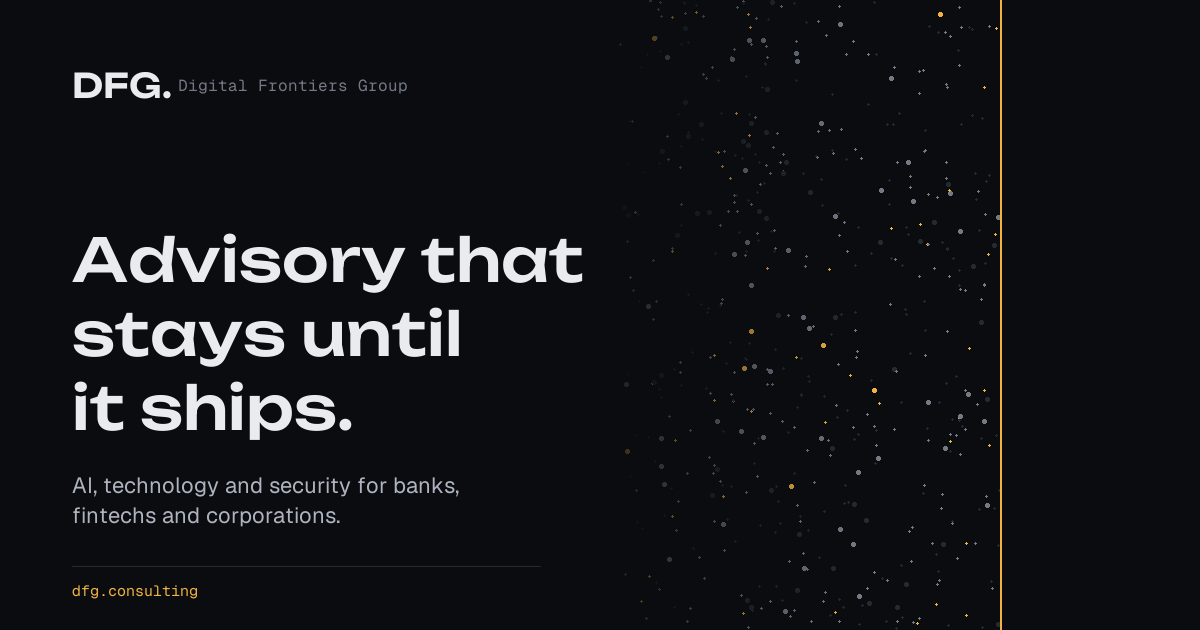
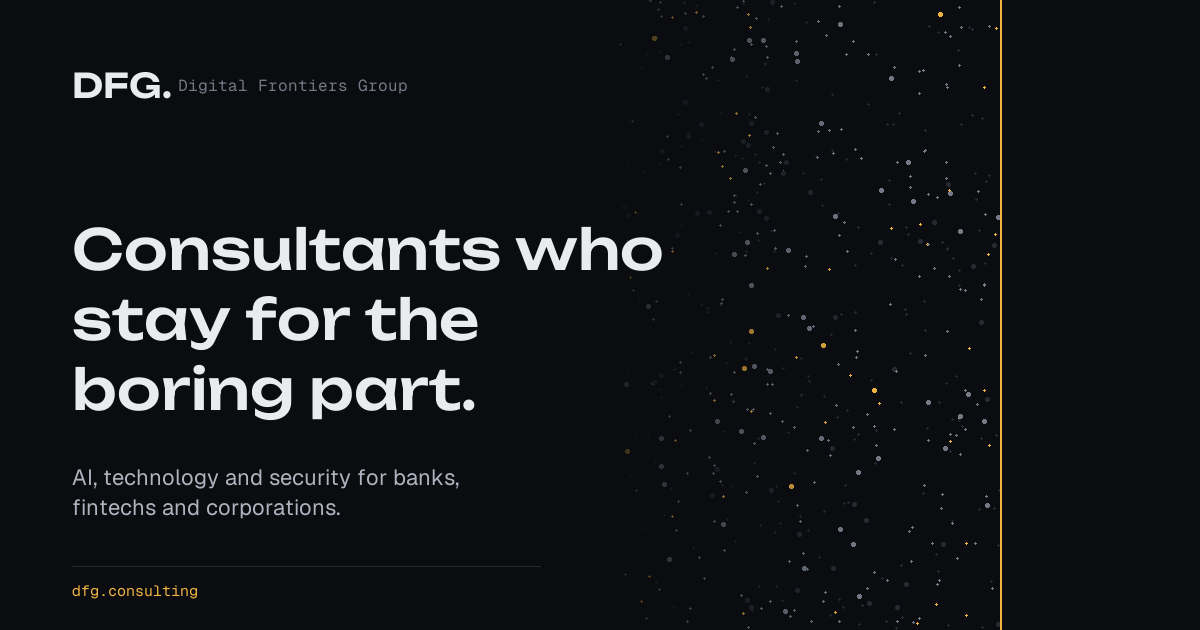
Hero cut to headline, one sentence, one button; new headline and one-liners; canvas without route labels; OG image updated

Changed region(s): [[0.0617, 0.3619, 0.555, 0.6937], [0.0617, 0.754, 0.4008, 0.8444]]

diff --git a/index.html b/index.html
@@ -16,7 +16,7 @@
 <meta property="og:image" content="https://dfg.consulting/og.png">
 <meta property="og:image:width" content="1200">
 <meta property="og:image:height" content="630">
-<meta property="og:image:alt" content="DFG. Advisory that stays until it ships.">
+<meta property="og:image:alt" content="DFG. Consultants who stay for the boring part.">
 <meta name="twitter:card" content="summary_large_image">
 <meta name="twitter:image" content="https://dfg.consulting/og.png">
 <link rel="preconnect" href="https://fonts.googleapis.com">
@@ -46,14 +46,13 @@
     <canvas id="scan" aria-hidden="true"></canvas>
     <div class="grid">
       <div class="copy">
-        <h1 class="d" id="h1">Advisory that stays until it ships.</h1>
-        <p class="sub">AI, technology and security for banks, fintechs and corporations. A written diagnosis in two weeks, a plan the board can approve, and then we stay through delivery until it runs in production.</p>
-        <p class="who">For a board with an AI mandate and no plan, a fintech choosing its market, its model and its partners, or a CTO holding a customer's due-diligence questionnaire. Fixed scope and fixed price, agreed in writing before day one.</p>
+        <h1 class="d" id="h1">Consultants who stay for the boring part.</h1>
+        <p class="sub">AI, technology and security for banks, fintechs and corporations. Two weeks to a written diagnosis, then we stay until it runs in production.</p>
         <a class="btn" href="#contact">Start a conversation <svg width="18" height="18" viewBox="0 0 18 18" fill="none" aria-hidden="true"><path d="M2 9h13M10 4l5 5-5 5" stroke="currentColor" stroke-width="1.8"/></svg></a>
       </div>
       <div class="tool">
         <nav class="checks frame" id="checks" aria-label="Three checks you can run now">
-          <div class="checks-h"><h2>Three checks you can run now</h2><span>Free. Nothing is stored.</span></div>
+          <div class="checks-h"><h2>Three checks you can run now</h2></div>
           <a class="row" href="/ai-readiness"><span class="n">01</span><span><span class="t">AI readiness assessment</span><span class="s">Six questions, about three minutes. Where an AI programme stands and what to fix first.</span></span><span class="go"><svg width="18" height="18" viewBox="0 0 18 18" fill="none" aria-hidden="true"><path d="M2 9h13M10 4l5 5-5 5" stroke="currentColor" stroke-width="1.6"/></svg></span></a>
           <a class="row" href="/bank-onboarding"><span class="n">02</span><span><span class="t">Bank onboarding evidence</span><span class="s">Thirteen documents a sponsor bank asks for, in the order its review runs.</span></span><span class="go"><svg width="18" height="18" viewBox="0 0 18 18" fill="none" aria-hidden="true"><path d="M2 9h13M10 4l5 5-5 5" stroke="currentColor" stroke-width="1.6"/></svg></span></a>
           <a class="row" href="/iso-27001"><span class="n">03</span><span><span class="t">ISO 27001 control check</span><span class="s">Twelve Annex A controls, in the order an auditor samples them.</span></span><span class="go"><svg width="18" height="18" viewBox="0 0 18 18" fill="none" aria-hidden="true"><path d="M2 9h13M10 4l5 5-5 5" stroke="currentColor" stroke-width="1.6"/></svg></span></a>
@@ -66,7 +65,7 @@
     <div class="grid">
       <div class="sh"><span class="no">01</span><h2>Services</h2><p>Three lines of work. Each starts with a Diagnosis and ends in production.</p></div>
       <div class="sb">
-        <p class="lead">Every engagement starts with a two-week written Diagnosis and ends with something running in production. Not a slide deck, not a roadmap nobody owns.</p>
+        <p class="lead">For a board with an AI mandate and no plan, a fintech choosing its market, its model and its partners, or a CTO holding a customer's due-diligence questionnaire. Every engagement starts with a two-week written Diagnosis and ends with something running in production. Fixed scope, fixed price, in writing before day one.</p>
 
         <div class="svc" id="svc-ai">
           <div class="txt">
@@ -145,14 +144,14 @@
           <span class="mark"><svg viewBox="0 0 64 64" aria-hidden="true"><circle cx="8" cy="12" r="1.3" fill="#AEB4BF" opacity="0.55"/><circle cx="16" cy="12" r="1.3" fill="#AEB4BF" opacity="0.55"/><circle cx="24" cy="12" r="1.3" fill="#AEB4BF" opacity="0.55"/><circle cx="32" cy="12" r="1.3" fill="#F2B441" opacity="1"/><circle cx="40" cy="12" r="1.3" fill="#F2B441" opacity="1"/><circle cx="48" cy="12" r="1.3" fill="#AEB4BF" opacity="0.55"/><circle cx="56" cy="12" r="1.3" fill="#AEB4BF" opacity="0.55"/><circle cx="8" cy="20" r="1.3" fill="#AEB4BF" opacity="0.55"/><circle cx="16" cy="20" r="1.3" fill="#AEB4BF" opacity="0.55"/><circle cx="24" cy="20" r="1.3" fill="#AEB4BF" opacity="0.55"/><circle cx="32" cy="20" r="1.3" fill="#F2B441" opacity="1"/><circle cx="40" cy="20" r="1.3" fill="#F2B441" opacity="1"/><circle cx="48" cy="20" r="1.3" fill="#AEB4BF" opacity="0.55"/><circle cx="56" cy="20" r="1.3" fill="#AEB4BF" opacity="0.55"/><circle cx="8" cy="28" r="1.3" fill="#AEB4BF" opacity="0.55"/><circle cx="16" cy="28" r="1.3" fill="#AEB4BF" opacity="0.55"/><circle cx="24" cy="28" r="1.3" fill="#AEB4BF" opacity="0.55"/><circle cx="32" cy="28" r="1.3" fill="#F2B441" opacity="1"/><circle cx="40" cy="28" r="1.3" fill="#F2B441" opacity="1"/><circle cx="48" cy="28" r="1.3" fill="#AEB4BF" opacity="0.55"/><circle cx="56" cy="28" r="1.3" fill="#AEB4BF" opacity="0.55"/><circle cx="8" cy="36" r="1.3" fill="#AEB4BF" opacity="0.55"/><circle cx="16" cy="36" r="1.3" fill="#AEB4BF" opacity="0.55"/><circle cx="24" cy="36" r="1.3" fill="#AEB4BF" opacity="0.55"/><circle cx="32" cy="36" r="1.3" fill="#F2B441" opacity="1"/><circle cx="40" cy="36" r="1.3" fill="#F2B441" opacity="1"/><circle cx="48" cy="36" r="1.3" fill="#AEB4BF" opacity="0.55"/><circle cx="56" cy="36" r="1.3" fill="#AEB4BF" opacity="0.55"/><circle cx="8" cy="44" r="1.3" fill="#AEB4BF" opacity="0.55"/><circle cx="16" cy="44" r="1.3" fill="#AEB4BF" opacity="0.55"/><circle cx="24" cy="44" r="1.3" fill="#AEB4BF" opacity="0.55"/><circle cx="32" cy="44" r="1.3" fill="#F2B441" opacity="1"/><circle cx="40" cy="44" r="1.3" fill="#F2B441" opacity="1"/><circle cx="48" cy="44" r="1.3" fill="#AEB4BF" opacity="0.55"/><circle cx="56" cy="44" r="1.3" fill="#AEB4BF" opacity="0.55"/><circle cx="8" cy="52" r="1.3" fill="#AEB4BF" opacity="0.55"/><circle cx="16" cy="52" r="1.3" fill="#AEB4BF" opacity="0.55"/><circle cx="24" cy="52" r="1.3" fill="#AEB4BF" opacity="0.55"/><circle cx="32" cy="52" r="1.3" fill="#F2B441" opacity="1"/><circle cx="40" cy="52" r="1.3" fill="#F2B441" opacity="1"/><circle cx="48" cy="52" r="1.3" fill="#AEB4BF" opacity="0.55"/><circle cx="56" cy="52" r="1.3" fill="#AEB4BF" opacity="0.55"/><path d="M36 6v52" stroke="#F2B441" stroke-width="1"/></svg></span>
           <span class="k">01 &middot; AI and IT consulting</span>
           <h3>AI strategy and delivery</h3>
-          <p>From a board mandate to one use-case in production with a measured result.</p>
+          <p>A list of thirty use-cases becomes two. One of them ships.</p>
           <span class="go"><svg width="18" height="18" viewBox="0 0 18 18" fill="none" aria-hidden="true"><path d="M2 9h13M10 4l5 5-5 5" stroke="currentColor" stroke-width="1.8"/></svg></span>
         </a>
         <a class="area frame" href="/expertise/data-and-it">
           <span class="mark"><svg viewBox="0 0 64 64" aria-hidden="true"><rect x="8" y="9" width="9" height="9" fill="#F2B441" stroke="#F2B441" stroke-width="1" opacity="1"/><rect x="21" y="9" width="9" height="9" fill="none" stroke="#AEB4BF" stroke-width="1" opacity="0.7"/><rect x="34" y="9" width="9" height="9" fill="none" stroke="#AEB4BF" stroke-width="1" opacity="0.7"/><rect x="47" y="9" width="9" height="9" fill="none" stroke="#AEB4BF" stroke-width="1" opacity="0.7"/><rect x="8" y="22" width="9" height="9" fill="none" stroke="#AEB4BF" stroke-width="1" opacity="0.7"/><rect x="21" y="22" width="9" height="9" fill="#F2B441" stroke="#F2B441" stroke-width="1" opacity="1"/><rect x="34" y="22" width="9" height="9" fill="none" stroke="#AEB4BF" stroke-width="1" opacity="0.7"/><rect x="47" y="22" width="9" height="9" fill="none" stroke="#AEB4BF" stroke-width="1" opacity="0.7"/><rect x="8" y="35" width="9" height="9" fill="none" stroke="#AEB4BF" stroke-width="1" opacity="0.7"/><rect x="21" y="35" width="9" height="9" fill="none" stroke="#AEB4BF" stroke-width="1" opacity="0.7"/><rect x="34" y="35" width="9" height="9" fill="none" stroke="#AEB4BF" stroke-width="1" opacity="0.7"/><rect x="47" y="35" width="9" height="9" fill="#F2B441" stroke="#F2B441" stroke-width="1" opacity="1"/><rect x="8" y="48" width="9" height="9" fill="none" stroke="#AEB4BF" stroke-width="1" opacity="0.7"/><rect x="21" y="48" width="9" height="9" fill="none" stroke="#AEB4BF" stroke-width="1" opacity="0.7"/><rect x="34" y="48" width="9" height="9" fill="#F2B441" stroke="#F2B441" stroke-width="1" opacity="1"/><rect x="47" y="48" width="9" height="9" fill="none" stroke="#AEB4BF" stroke-width="1" opacity="0.7"/></svg></span>
           <span class="k">02 &middot; AI and IT consulting</span>
           <h3>Data and IT foundations</h3>
-          <p>Who owns what, where the data is, and what it costs to make it usable.</p>
+          <p>The ground under the AI plan: who owns what, and what it costs to fix.</p>
           <span class="go"><svg width="18" height="18" viewBox="0 0 18 18" fill="none" aria-hidden="true"><path d="M2 9h13M10 4l5 5-5 5" stroke="currentColor" stroke-width="1.8"/></svg></span>
         </a>
         <a class="area frame" href="/expertise/fintech-product">
@@ -166,21 +165,21 @@
           <span class="mark"><svg viewBox="0 0 64 64" fill="none" aria-hidden="true"><path d="M32 32L12 14" stroke="#AEB4BF" stroke-width="1" opacity="0.6"/><path d="M32 32L52 14" stroke="#F2B441" stroke-width="1.4" opacity="1"/><path d="M32 32L10 50" stroke="#AEB4BF" stroke-width="1" opacity="0.6"/><path d="M32 32L54 50" stroke="#AEB4BF" stroke-width="1" opacity="0.6"/><path d="M32 32L32 6" stroke="#AEB4BF" stroke-width="1" opacity="0.6"/><rect x="9" y="11" width="6" height="6" fill="#AEB4BF"/><rect x="49" y="11" width="6" height="6" fill="#F2B441"/><rect x="7" y="47" width="6" height="6" fill="#AEB4BF"/><rect x="51" y="47" width="6" height="6" fill="#AEB4BF"/><rect x="29" y="3" width="6" height="6" fill="#AEB4BF"/><rect x="26" y="26" width="12" height="12" stroke="#F2B441" stroke-width="1.4"/></svg></span>
           <span class="k">04 &middot; Fintech advisory</span>
           <h3>Partnerships and the provider ecosystem</h3>
-          <p>Banks, card networks, KYC, payments, custody. Who to work with, on what terms, in what order.</p>
+          <p>A fintech runs on other people's licences and rails. We choose them, and the terms.</p>
           <span class="go"><svg width="18" height="18" viewBox="0 0 18 18" fill="none" aria-hidden="true"><path d="M2 9h13M10 4l5 5-5 5" stroke="currentColor" stroke-width="1.8"/></svg></span>
         </a>
         <a class="area frame" href="/expertise/security-posture">
           <span class="mark"><svg viewBox="0 0 64 64" aria-hidden="true"><rect x="7" y="14" width="10" height="10" fill="#F2B441" stroke="#F2B441" stroke-width="1" opacity="1"/><rect x="20" y="14" width="10" height="10" fill="#F2B441" stroke="#F2B441" stroke-width="1" opacity="1"/><rect x="33" y="14" width="10" height="10" fill="#F2B441" stroke="#F2B441" stroke-width="1" opacity="1"/><rect x="46" y="14" width="10" height="10" fill="#F2B441" stroke="#F2B441" stroke-width="1" opacity="1"/><rect x="7" y="27" width="10" height="10" fill="#F2B441" stroke="#F2B441" stroke-width="1" opacity="1"/><rect x="20" y="27" width="10" height="10" fill="#8C6A2A" stroke="#F2B441" stroke-width="1" opacity="1"/><rect x="33" y="27" width="10" height="10" fill="#8C6A2A" stroke="#F2B441" stroke-width="1" opacity="1"/><rect x="46" y="27" width="10" height="10" fill="none" stroke="#AEB4BF" stroke-width="1" opacity="0.6"/><rect x="7" y="40" width="10" height="10" fill="none" stroke="#AEB4BF" stroke-width="1" opacity="0.6"/><rect x="20" y="40" width="10" height="10" fill="none" stroke="#AEB4BF" stroke-width="1" opacity="0.6"/><rect x="33" y="40" width="10" height="10" fill="none" stroke="#AEB4BF" stroke-width="1" opacity="0.6"/><rect x="46" y="40" width="10" height="10" fill="none" stroke="#AEB4BF" stroke-width="1" opacity="0.6"/></svg></span>
           <span class="k">05 &middot; Cybersecurity consulting</span>
           <h3>Security posture and audit readiness</h3>
-          <p>ISO 27001, SOC 2 and PCI DSS. The gap list in audit order, and remediation until the audit passes first time.</p>
+          <p>The gap list in the order the auditor will find it. Closed before the audit does.</p>
           <span class="go"><svg width="18" height="18" viewBox="0 0 18 18" fill="none" aria-hidden="true"><path d="M2 9h13M10 4l5 5-5 5" stroke="currentColor" stroke-width="1.8"/></svg></span>
         </a>
         <a class="area frame" href="/expertise/incident-response">
           <span class="mark"><svg viewBox="0 0 64 64" fill="none" aria-hidden="true"><path d="M4 40h14l4-14 5 26 5-18 4 6h24" stroke="#AEB4BF" stroke-width="1.2"/><path d="M22 26l5 26" stroke="#F2B441" stroke-width="1.6"/><circle cx="27" cy="52" r="3" fill="#F2B441"/><path d="M4 52h56" stroke="#313743" stroke-width="1"/></svg></span>
           <span class="k">06 &middot; Cybersecurity consulting</span>
           <h3>Incident response and resilience</h3>
-          <p>An incident-response plan people have rehearsed, and a board that knows what happens on the day.</p>
+          <p>Most incident plans have never been opened. Ours get rehearsed.</p>
           <span class="go"><svg width="18" height="18" viewBox="0 0 18 18" fill="none" aria-hidden="true"><path d="M2 9h13M10 4l5 5-5 5" stroke="currentColor" stroke-width="1.8"/></svg></span>
         </a>
         </div>

diff --git a/assets/site.css b/assets/site.css
@@ -53,16 +53,16 @@ body::after{content:"";position:fixed;inset:0;pointer-events:none;z-index:60;opa
 .hero canvas{position:absolute;inset:0;width:100%;height:100%;z-index:-1;display:block}
 .hero::after{content:"";position:absolute;inset:auto 0 0 0;height:160px;background:linear-gradient(to bottom,transparent,var(--void));z-index:-1;pointer-events:none}
 .hero .grid{align-items:center;position:relative;width:100%}
-.hero .copy{grid-column:1/7;display:flex;flex-direction:column;gap:24px;align-items:flex-start;position:relative}
+.hero .copy{grid-column:1/7;display:flex;flex-direction:column;gap:28px;align-items:flex-start;position:relative}
 .hero .copy::before{content:"";position:absolute;inset:-40px -80px -40px -60px;background:radial-gradient(ellipse at 40% 50%,rgba(10,12,16,.92) 40%,rgba(10,12,16,0) 75%);z-index:-1;pointer-events:none}
 .hero h1{font-size:clamp(34px,3.9vw,58px)}
-.hero .sub{font-size:clamp(16px,1.25vw,19px);line-height:1.45;max-width:36ch;text-wrap:pretty;color:var(--bone-70)}
+.hero .sub{font-size:clamp(17px,1.35vw,21px);line-height:1.45;max-width:38ch;text-wrap:pretty;color:var(--bone-70)}
 .hero .who{font-size:14.5px;color:var(--bone-70);max-width:38ch;line-height:1.5;border-top:1px solid var(--line);padding-top:14px}
 .hero .tool{grid-column:8/13}
 .hero .w{display:inline-block;opacity:0;transform:translateY(.4em);animation:wup .9s cubic-bezier(.2,.8,.2,1) forwards}
 @keyframes wup{to{opacity:1;transform:none}}
 .hero .sub,.hero .who,.hero .btn{opacity:0;animation:wup .9s cubic-bezier(.2,.8,.2,1) forwards}
-.hero .sub{animation-delay:.6s} .hero .who{animation-delay:.75s} .hero .btn{animation-delay:.9s}
+.hero .sub{animation-delay:.6s} .hero .btn{animation-delay:.8s}
 .hero .tool{opacity:0;transform:translateY(16px);animation:wup 1.1s cubic-bezier(.2,.8,.2,1) .7s forwards}
 
 /* The three checks, as a panel */

diff --git a/assets/scan.js b/assets/scan.js
@@ -15,7 +15,7 @@
     for(var j=0;j<NZ;j++)for(var i=0;i<NX;i++){var u=i/(NX-1), v=j/(NZ-1); pts.push({x:X0+(X1-X0)*u, z:Z0+(Z1-Z0)*v, y:height(u,v)});}
     var cam={y:1.05,z:-0.55,pitch:0.50,f:1.0}, yaw=0, o={x:0,y:0,d:0};
     // the plan: six sites in the order an engagement runs, set on the surveyed ground as the sweep passes
-    var SITES=[{l:'Diagnose'},{l:'Plan'},{l:'Vendors'},{l:'Pilot'},{l:'Production'},{l:'Stay'}];
+    var SITES=[]; // the route and its labels were drawn here once; the surface says enough on its own
 
     var readM=document.getElementById('rM');
     function size(){dpr=Math.min(2,window.devicePixelRatio||1); W=c.clientWidth||hero.clientWidth; H=c.clientHeight||hero.clientHeight; c.width=W*dpr; c.height=H*dpr; ctx.setTransform(dpr,0,0,dpr,0,0); placeSites();}

diff --git a/ai-readiness.html b/ai-readiness.html
@@ -16,7 +16,7 @@
 <meta property="og:image" content="https://dfg.consulting/og.png">
 <meta property="og:image:width" content="1200">
 <meta property="og:image:height" content="630">
-<meta property="og:image:alt" content="DFG. Advisory that stays until it ships.">
+<meta property="og:image:alt" content="DFG. Consultants who stay for the boring part.">
 <meta name="twitter:card" content="summary_large_image">
 <meta name="twitter:image" content="https://dfg.consulting/og.png">
 <link rel="preconnect" href="https://fonts.googleapis.com">

diff --git a/bank-onboarding.html b/bank-onboarding.html
@@ -16,7 +16,7 @@
 <meta property="og:image" content="https://dfg.consulting/og.png">
 <meta property="og:image:width" content="1200">
 <meta property="og:image:height" content="630">
-<meta property="og:image:alt" content="DFG. Advisory that stays until it ships.">
+<meta property="og:image:alt" content="DFG. Consultants who stay for the boring part.">
 <meta name="twitter:card" content="summary_large_image">
 <meta name="twitter:image" content="https://dfg.consulting/og.png">
 <link rel="preconnect" href="https://fonts.googleapis.com">

diff --git a/expertise/ai-strategy.html b/expertise/ai-strategy.html
@@ -16,7 +16,7 @@
 <meta property="og:image" content="https://dfg.consulting/og.png">
 <meta property="og:image:width" content="1200">
 <meta property="og:image:height" content="630">
-<meta property="og:image:alt" content="DFG. Advisory that stays until it ships.">
+<meta property="og:image:alt" content="DFG. Consultants who stay for the boring part.">
 <meta name="twitter:card" content="summary_large_image">
 <meta name="twitter:image" content="https://dfg.consulting/og.png">
 <link rel="preconnect" href="https://fonts.googleapis.com">

diff --git a/expertise/data-and-it.html b/expertise/data-and-it.html
@@ -16,7 +16,7 @@
 <meta property="og:image" content="https://dfg.consulting/og.png">
 <meta property="og:image:width" content="1200">
 <meta property="og:image:height" content="630">
-<meta property="og:image:alt" content="DFG. Advisory that stays until it ships.">
+<meta property="og:image:alt" content="DFG. Consultants who stay for the boring part.">
 <meta name="twitter:card" content="summary_large_image">
 <meta name="twitter:image" content="https://dfg.consulting/og.png">
 <link rel="preconnect" href="https://fonts.googleapis.com">

diff --git a/expertise/fintech-product.html b/expertise/fintech-product.html
@@ -16,7 +16,7 @@
 <meta property="og:image" content="https://dfg.consulting/og.png">
 <meta property="og:image:width" content="1200">
 <meta property="og:image:height" content="630">
-<meta property="og:image:alt" content="DFG. Advisory that stays until it ships.">
+<meta property="og:image:alt" content="DFG. Consultants who stay for the boring part.">
 <meta name="twitter:card" content="summary_large_image">
 <meta name="twitter:image" content="https://dfg.consulting/og.png">
 <link rel="preconnect" href="https://fonts.googleapis.com">

diff --git a/expertise/incident-response.html b/expertise/incident-response.html
@@ -16,7 +16,7 @@
 <meta property="og:image" content="https://dfg.consulting/og.png">
 <meta property="og:image:width" content="1200">
 <meta property="og:image:height" content="630">
-<meta property="og:image:alt" content="DFG. Advisory that stays until it ships.">
+<meta property="og:image:alt" content="DFG. Consultants who stay for the boring part.">
 <meta name="twitter:card" content="summary_large_image">
 <meta name="twitter:image" content="https://dfg.consulting/og.png">
 <link rel="preconnect" href="https://fonts.googleapis.com">

diff --git a/expertise/partnerships.html b/expertise/partnerships.html
@@ -16,7 +16,7 @@
 <meta property="og:image" content="https://dfg.consulting/og.png">
 <meta property="og:image:width" content="1200">
 <meta property="og:image:height" content="630">
-<meta property="og:image:alt" content="DFG. Advisory that stays until it ships.">
+<meta property="og:image:alt" content="DFG. Consultants who stay for the boring part.">
 <meta name="twitter:card" content="summary_large_image">
 <meta name="twitter:image" content="https://dfg.consulting/og.png">
 <link rel="preconnect" href="https://fonts.googleapis.com">

diff --git a/expertise/security-posture.html b/expertise/security-posture.html
@@ -16,7 +16,7 @@
 <meta property="og:image" content="https://dfg.consulting/og.png">
 <meta property="og:image:width" content="1200">
 <meta property="og:image:height" content="630">
-<meta property="og:image:alt" content="DFG. Advisory that stays until it ships.">
+<meta property="og:image:alt" content="DFG. Consultants who stay for the boring part.">
 <meta name="twitter:card" content="summary_large_image">
 <meta name="twitter:image" content="https://dfg.consulting/og.png">
 <link rel="preconnect" href="https://fonts.googleapis.com">

diff --git a/iso-27001.html b/iso-27001.html
@@ -16,7 +16,7 @@
 <meta property="og:image" content="https://dfg.consulting/og.png">
 <meta property="og:image:width" content="1200">
 <meta property="og:image:height" content="630">
-<meta property="og:image:alt" content="DFG. Advisory that stays until it ships.">
+<meta property="og:image:alt" content="DFG. Consultants who stay for the boring part.">
 <meta name="twitter:card" content="summary_large_image">
 <meta name="twitter:image" content="https://dfg.consulting/og.png">
 <link rel="preconnect" href="https://fonts.googleapis.com">
